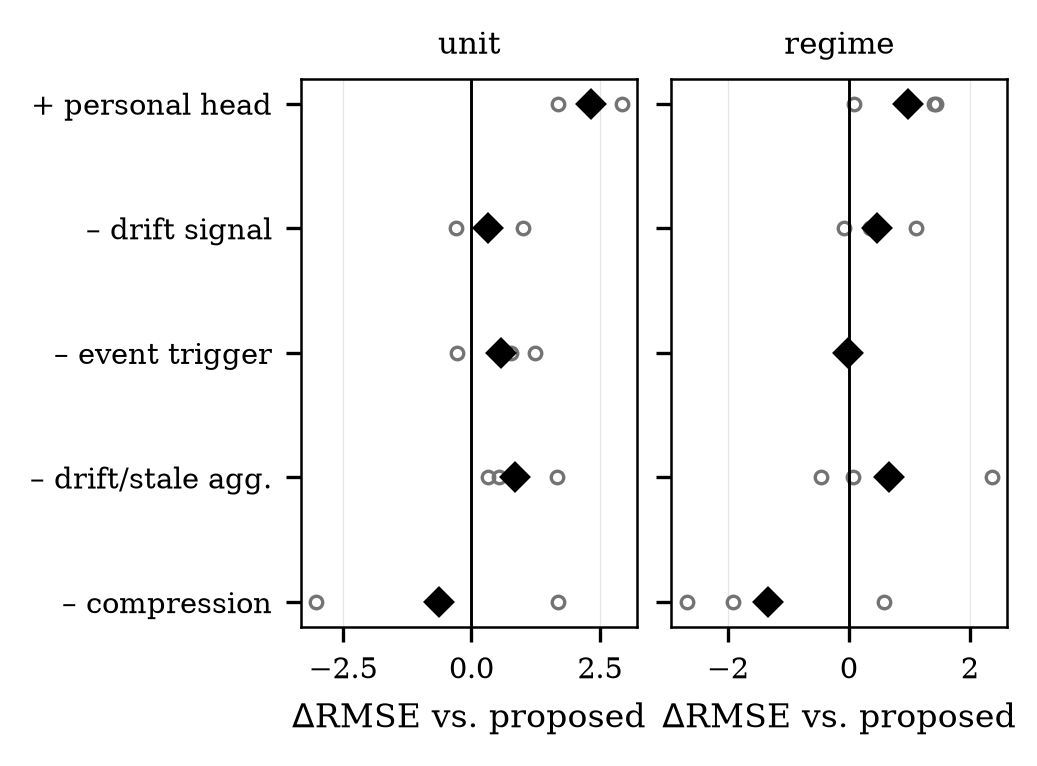
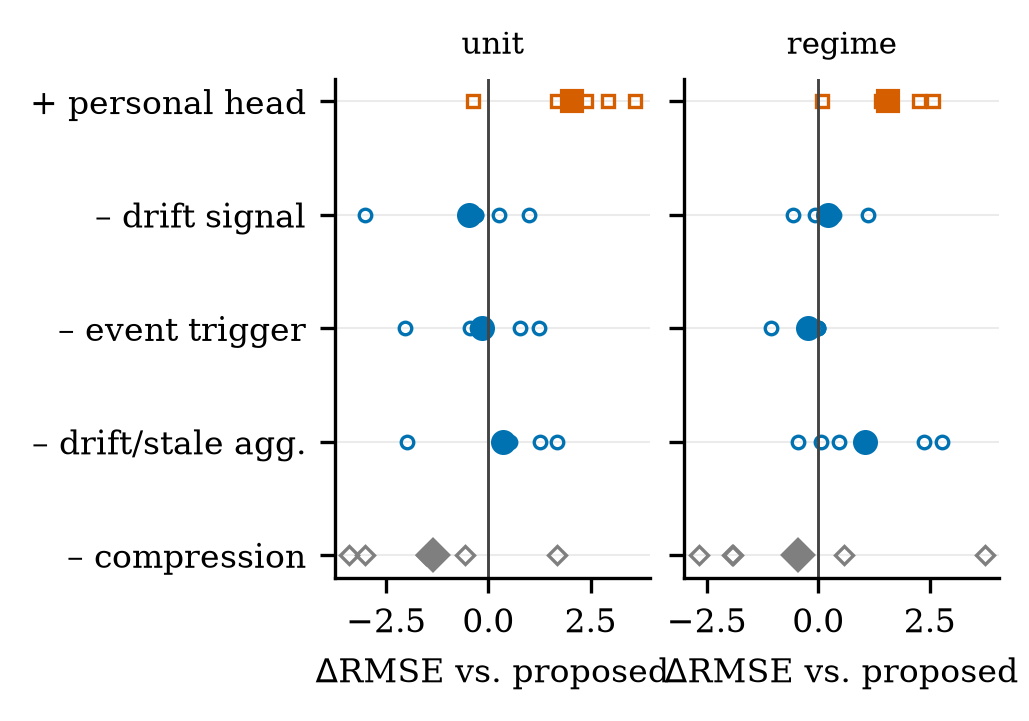
Supplementary figures carry the manuscript palette (frozen v2.0.0 target)
fig3_paired_deltas and fig5_lambda_sweep regenerated in
paper/supplementary/ with the shared COLORS/MARKERS scheme and
grayscale-separable marker/fill discipline; make_figures.py routes
supplementary outputs there. Nothing under paper/latex changed
(verified via git status). FROZEN Zenodo v2.0.0 release target;
next commit is the post-mint DOI insertion only.

diff --git a/paper/make_figures.py b/paper/make_figures.py
@@ -15,7 +15,9 @@ from matplotlib.patches import FancyBboxPatch
 
 ROOT = os.path.dirname(os.path.dirname(os.path.abspath(__file__)))
 FIGDIR = os.path.join(ROOT, "paper", "latex", "figures")
+SUPPDIR = os.path.join(ROOT, "paper", "supplementary")
 os.makedirs(FIGDIR, exist_ok=True)
+os.makedirs(SUPPDIR, exist_ok=True)
 
 plt.rcParams.update({"font.family": "serif", "font.size": 8,
   "axes.grid": True, "grid.alpha": 0.25, "grid.linewidth": 0.5,
@@ -34,9 +36,9 @@ def J(rel):
     return json.load(open(os.path.join(ROOT, rel)))
 
 
-def save(fig, name):
+def save(fig, name, out=None):
     for ext, kw in (("pdf", {}), ("png", {"dpi": 300})):
-        fig.savefig(os.path.join(FIGDIR, f"{name}.{ext}"), bbox_inches="tight", **kw)
+        fig.savefig(os.path.join(out or FIGDIR, f"{name}.{ext}"), bbox_inches="tight", **kw)
     plt.close(fig)
     print(f"[saved] {name}.pdf/.png")
 
@@ -95,21 +97,28 @@ def fig3():
             "proposed_plain_aggregation", "proposed_no_compression"]
     labels = ["+ personal head", "– drift signal", "– event trigger",
               "– drift/stale agg.", "– compression"]
+    arm_key = {"+personal_head": "DGFed-P",
+               "proposed_no_drift_signal": "DGFed",
+               "proposed_no_event_trigger": "DGFed",
+               "proposed_plain_aggregation": "DGFed",
+               "proposed_no_compression": "No compression"}
     fig, axes = plt.subplots(1, 2, figsize=(3.5, 2.45), sharey=True)
     for ax, part in zip(axes, ["unit", "regime"]):
         for i, arm in enumerate(arms):
             d = an[part][arm]["per_seed_delta"]
             y = len(arms) - 1 - i
-            ax.plot(d, [y] * len(d), "o", ms=3, mfc="none", mec="0.45", mew=0.8)
-            ax.plot(np.mean(d), y, "D", ms=4.5, color="0.0")
-        ax.axvline(0, color="0.0", lw=0.7)
+            k = arm_key[arm]
+            ax.plot(d, [y] * len(d), MARKERS[k], ms=3, mfc="none",
+                    mec=COLORS[k], mew=0.8)
+            ax.plot(np.mean(d), y, MARKERS[k], ms=5, color=COLORS[k])
+        ax.axvline(0, color="#444444", lw=0.7)
         ax.set_yticks(range(len(arms)))
         ax.set_yticklabels(labels[::-1])
         ax.set_title(part, fontsize=7.5)
-        ax.grid(True, axis="x", lw=0.3, color="0.9")
+        ax.grid(axis="x")
         ax.set_xlabel(r"$\Delta$RMSE vs. proposed")
     fig.tight_layout(w_pad=0.6)
-    save(fig, "fig3_paired_deltas")
+    save(fig, "fig3_paired_deltas", out=SUPPDIR)
 
 
 # ---------------------------------------------------------- fig 4: retention
@@ -146,12 +155,12 @@ def fig5():
     fig, ax = plt.subplots(figsize=(3.5, 2.0))
     ax.axhspan(3, 8, color="0.9", lw=0)
     ax.text(260, 5.4, "target band", fontsize=6.5, color="0.35", va="center")
-    ax.plot(lams, fire, "-o", ms=4, color="0.0", label="drift fire rate")
+    ax.plot(lams, fire, "-o", ms=4, color=COLORS["DGFed"], label="drift fire rate")
     ax.axvline(5000, color="0.0", lw=0.7, ls=":")
     # observed transfer points at the chosen lambda (portability limitation)
     for y, lbl, dy in [(19.0, "FD004-regime", 0.6), (14.3, "FD002-regime", 0.6),
                        (6.7, "FD002-unit", -1.9)]:
-        ax.plot(5000, y, "o", ms=4, mfc="1.0", mec="0.0", mew=0.9)
+        ax.plot(5000, y, "o", ms=4, mfc="1.0", mec=COLORS["DGFed"], mew=0.9)
         ax.annotate(lbl, (5000, y), xytext=(3550, y + dy), fontsize=5.5,
                     ha="right", color="0.25",
                     arrowprops=dict(arrowstyle="-", lw=0.5, color="0.55"))
@@ -164,7 +173,9 @@ def fig5():
     ax.set_xlabel(r"Page–Hinkley threshold $\lambda$")
     ax.set_ylabel("drift fire rate (%)")
     ax2 = ax.twinx()
-    ax2.plot(lams, rmse, "--s", ms=3.5, color="0.5", label="RMSE (50 rounds)")
+    ax2.spines["right"].set_visible(True)
+    ax2.grid(False)
+    ax2.plot(lams, rmse, "--s", ms=3.5, color="#7F7F7F", label="RMSE (50 rounds)")
     ax2.set_ylabel("RMSE (cycles)", color="0.35")
     ax2.tick_params(axis="y", labelcolor="0.35")
     ax2.minorticks_off()
@@ -174,7 +185,7 @@ def fig5():
               loc="lower center", bbox_to_anchor=(0.5, 1.0))
     ax.grid(True, which="major", lw=0.3, color="0.9")
     fig.tight_layout()
-    save(fig, "fig5_lambda_sweep")
+    save(fig, "fig5_lambda_sweep", out=SUPPDIR)
 
 
 if __name__ == "__main__":
